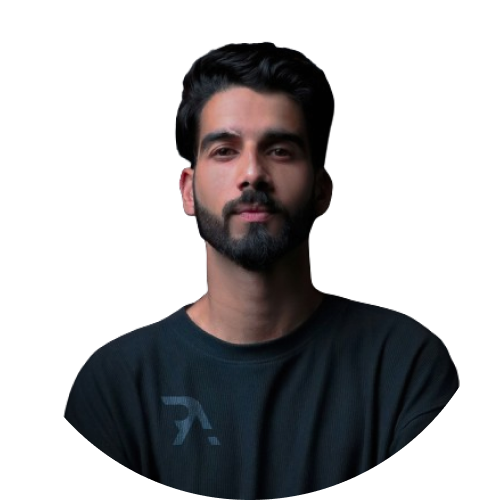
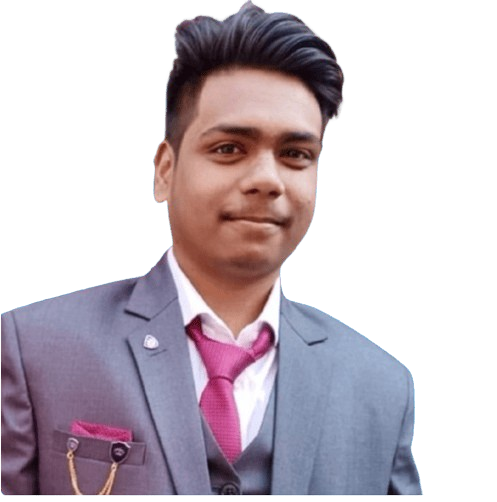
ese hi

diff --git a/components/Photo.jsx b/components/Photo.jsx
@@ -1,58 +1,60 @@
-"use client"
+"use client";
 import { motion } from "framer-motion";
 import Image from "next/image";
 
-const Photo = ()=>{
-    return(
-        <div className="w-full h-full relative">
-            <motion.div 
-            initial={{opacity:0}}
-            animate={{
-                opacity: 1,
-                transition: {delay:2,duration:0.4,ease:"easeIn"},
-            }}
-            >
-                {/* image */}
-                <motion.div 
-                initial={{opacity:0}}
+const Photo = () => {
+    return (
+        <div className="w-full h-full relative flex items-center justify-center">
+            {/* Outer animated glow effect */}
+            <motion.div
+                className="absolute w-[320px] h-[320px] xl:w-[520px] xl:h-[520px] rounded-full bg-gradient-to-r from-purple-400 via-pink-500 to-indigo-500 opacity-50 blur-2xl"
                 animate={{
-                    opacity: 1,
-                    transition: {delay:2.4,duration:0.4,ease:"easeInOut"},
-                }}
-                className="w-[298px] h-[298px] xl:w-[498px] xl:h-[498px] mix-blend-lighten absolute"
-                >
-                    <Image 
-                    src="/assets/2.jpg" 
-                    priority 
-                    quality={100} 
-                    fill
-                    alt="User Photo" 
-                    className="object-contain"
-                    />
-                </motion.div>
-            {/* circle */}
-            <motion.svg className="w-[300px] xl:w-[506px] h-[300px] xl:h-[506px] "
-            fill="transparent"
-            viewBox="0 0 506 506"
-            xmlns="http://www.w3.org/2000/svg"
-            >
-                <motion.circle cx="253" cy="253" r="250" stroke="#a855f7"
-                strokeWidth="4"
-                strokeLinecap="round"
-                strokeLinejoin="round"
-                initial={{strokeDasharray:"24 10 0 0"}}
-                animate={{
-                    strokeDasharray:["15 120 25 25", "16 25 92 72", "4 250 22 22"],
-                    rotate: [0,120],
+                    scale: [1, 1.2, 1],
+                    rotate: [0, 360],
                 }}
                 transition={{
-                    duration:20,
+                    duration: 10,
                     repeat: Infinity,
-                    repeatType: "reverse"
+                    ease: "linear",
                 }}
+            ></motion.div>
 
+            {/* Inner rotating gradient ring */}
+            <motion.div
+                className="absolute w-[300px] h-[300px] xl:w-[500px] xl:h-[500px] rounded-full border-4 border-dashed border-gradient-to-r from-blue-400 to-teal-500"
+                animate={{
+                    rotate: [0, 360],
+                }}
+                transition={{
+                    duration: 15,
+                    repeat: Infinity,
+                    ease: "linear",
+                }}
+            ></motion.div>
+
+            {/* Photo with hover effect */}
+            <motion.div
+                initial={{ opacity: 0, scale: 0.8 }}
+                animate={{
+                    opacity: 1,
+                    scale: 1,
+                    transition: { delay: 1, duration: 0.8, ease: "easeOut" },
+                }}
+                whileHover={{
+                    scale: 1.1,
+                    boxShadow: "0px 0px 30px rgba(255, 105, 180, 0.8)",
+                    transition: { duration: 0.4, ease: "easeInOut" },
+                }}
+                className="relative z-10 w-[298px] h-[298px] xl:w-[498px] xl:h-[498px] rounded-full overflow-hidden shadow-2xl"
+            >
+                <Image
+                    src="/assets/abhi.png"
+                    priority
+                    quality={100}
+                    fill
+                    alt="User Photo"
+                    className="object-cover"
                 />
-            </motion.svg>
             </motion.div>
         </div>
     );

diff --git a/app/resume/page.jsx b/app/resume/page.jsx
@@ -11,30 +11,10 @@ const experience = {
         " Lorem ipsum dolor sit amet consectetur, adipisicing elit tempora Lorem ipsum dolor sit amet facilis.",
     items: [
         {
-            company: "XYZ",
+            company: "Suvidha Foundation",
             position: "Full Stack Developer",
-            duration: "2024-Present"
-        },
-        {
-            company: "ABC",
-            position: "Freelance Web Developer",
-            duration: "Winter 2023"
-        },
-        {
-            company: "PQR",
-            position: "Full Stack Developer",
-            duration: "Summer 2022"
-        },
-        {
-            company: "XYZ",
-            position: "Full Stack Developer",
-            duration: "2024-Present"
-        },
-        {
-            company: "ABC",
-            position: "Freelance Web Developer",
-            duration: "Winter 2023"
-        },
+            duration: "August-2024"
+        }
     ],
 };
 

diff --git a/app/page.jsx b/app/page.jsx
@@ -44,14 +44,14 @@ import Skills from "./skills/page";
       </div>
     </div>
     <Stats/>
-    <hr className="border-t-4 border-accent w-1/2 mx-auto mt-12 rounded-lg shadow-lg opacity-80"/>
+    <hr className="border-t-4 border-accent w-1/2 mx-auto mt-8 rounded-lg shadow-lg opacity-80"/>
     <Work/>
-    <hr className="border-t-4 border-accent w-1/2 mx-auto mt-2 rounded-lg shadow-lg opacity-80"/>
+    <hr className="border-t-4 border-accent w-1/2 mx-auto  rounded-lg shadow-lg opacity-80"/>
     <Skills/>
-    <hr className="border-t-4 border-accent w-1/2 mx-auto mt-2 rounded-lg shadow-lg opacity-80"/>
+    <hr className="border-t-4 border-accent w-1/2 mx-auto  rounded-lg shadow-lg opacity-80"/>
 
     <Resume/>
-    <hr className="border-t-4 border-accent w-1/2 mx-auto mt-2 rounded-lg shadow-lg opacity-80"/>
+    <hr className="border-t-4 border-accent w-1/2 mx-auto  rounded-lg shadow-lg opacity-80"/>
     <Contact/>
    </section>
   );

diff --git a/components/AboutMe.jsx b/components/AboutMe.jsx
@@ -7,7 +7,7 @@ const about = {
     info: [
         { fieldName: "Name", fieldValue: "Abhishek kumar", icon: User },
         { fieldName: "Phone", fieldValue: "+917678574104", icon: Phone },
-        { fieldName: "Experience", fieldValue: "2+ Year", icon: Calendar },
+        { fieldName: "Experience", fieldValue: "Less than year", icon: Calendar },
         { fieldName: "Nationality", fieldValue: "Indian", icon: Flag },
         { fieldName: "Freelance", fieldValue: "Available", icon: Briefcase },
         { fieldName: "Email", fieldValue: "shakeabhi403@gmail.com", icon: Mail },
